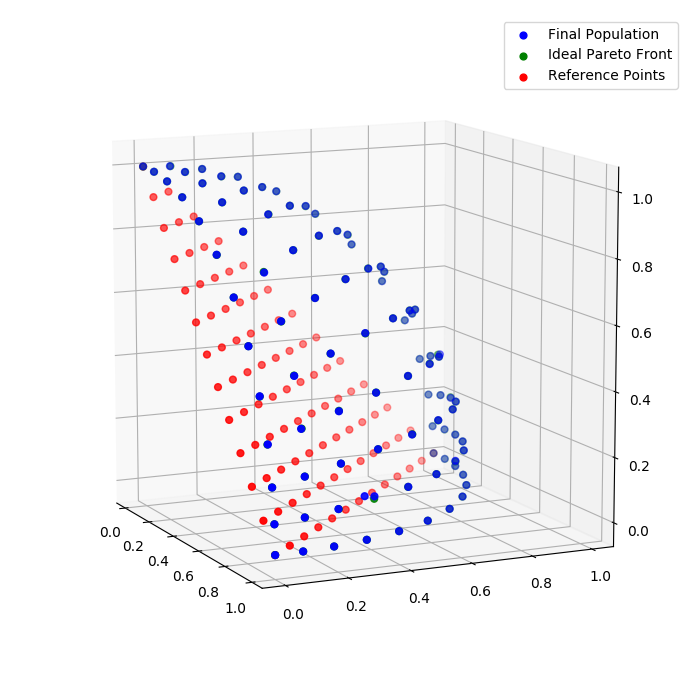
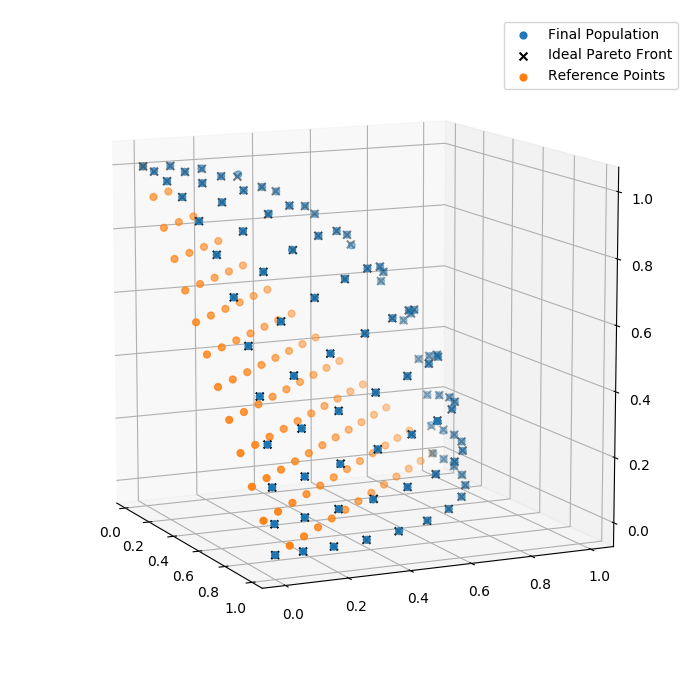
Finalize example

diff --git a/examples/ga/nsga3.py b/examples/ga/nsga3.py
@@ -110,3 +110,24 @@ if __name__ == "__main__":
 
     pf = problem.pareto_front(ref_points)
     print(igd(pop_fit, pf))
+
+    import matplotlib.pyplot as plt
+    import mpl_toolkits.mplot3d as Axes3d
+
+    fig = plt.figure(figsize=(7, 7))
+    ax = fig.add_subplot(111, projection="3d")
+
+    p = numpy.array([ind.fitness.values for ind in pop])
+    ax.scatter(p[:, 0], p[:, 1], p[:, 2], marker="o", s=24, label="Final Population")
+
+    ax.scatter(pf[:, 0], pf[:, 1], pf[:, 2], marker="x", c="k", s=32, label="Ideal Pareto Front")
+
+    ref_points = tools.uniform_reference_points(NOBJ, P)
+
+    ax.scatter(ref_points[:, 0], ref_points[:, 1], ref_points[:, 2], marker="o", s=24, label="Reference Points")
+
+    ax.view_init(elev=11, azim=-25)
+    ax.autoscale(tight=True)
+    plt.legend()
+    plt.tight_layout()
+    plt.savefig("nsga3.png")

diff --git a/doc/code/examples/nsga3_ref_points.py b/doc/code/examples/nsga3_ref_points.py
@@ -14,8 +14,8 @@ ax.scatter(0, 0, 0, c="k", marker="+", s=100)
 
 # reference points (gray)
 ref_points = tools.uniform_reference_points(NOBJ, P)
-for rp in ref_points:
-    ax.scatter(rp[0], rp[1], rp[2], marker="o", color="darkblue", s=48)
+
+ax.scatter(ref_points[:, 0], ref_points[:, 1], ref_points[:, 2], marker="o", s=48)
 
 # final figure details
 ax.set_xlabel("$f_1(\mathbf{x})$", fontsize=15)

diff --git a/doc/examples/nsga3.rst b/doc/examples/nsga3.rst
@@ -81,8 +81,8 @@ Conclusion
 ----------
 That's it for the NSGA-III algorithm using DEAP, now you can leverage
 the power of many-objective optimization with DEAP. If you're interrested,
-you can now change the evaluation function and try applying it to
-your own problem.
+you can copy the `example <https://github.com/DEAP/deap/blob/nsga-3/examples/ga/nsga3.py>`_
+change the evaluation function and try applying it to your own problem.
 
 .. [Deb2014] Deb, K., & Jain, H. (2014). An Evolutionary Many-Objective Optimization
    Algorithm Using Reference-Point-Based Nondominated Sorting Approach,
